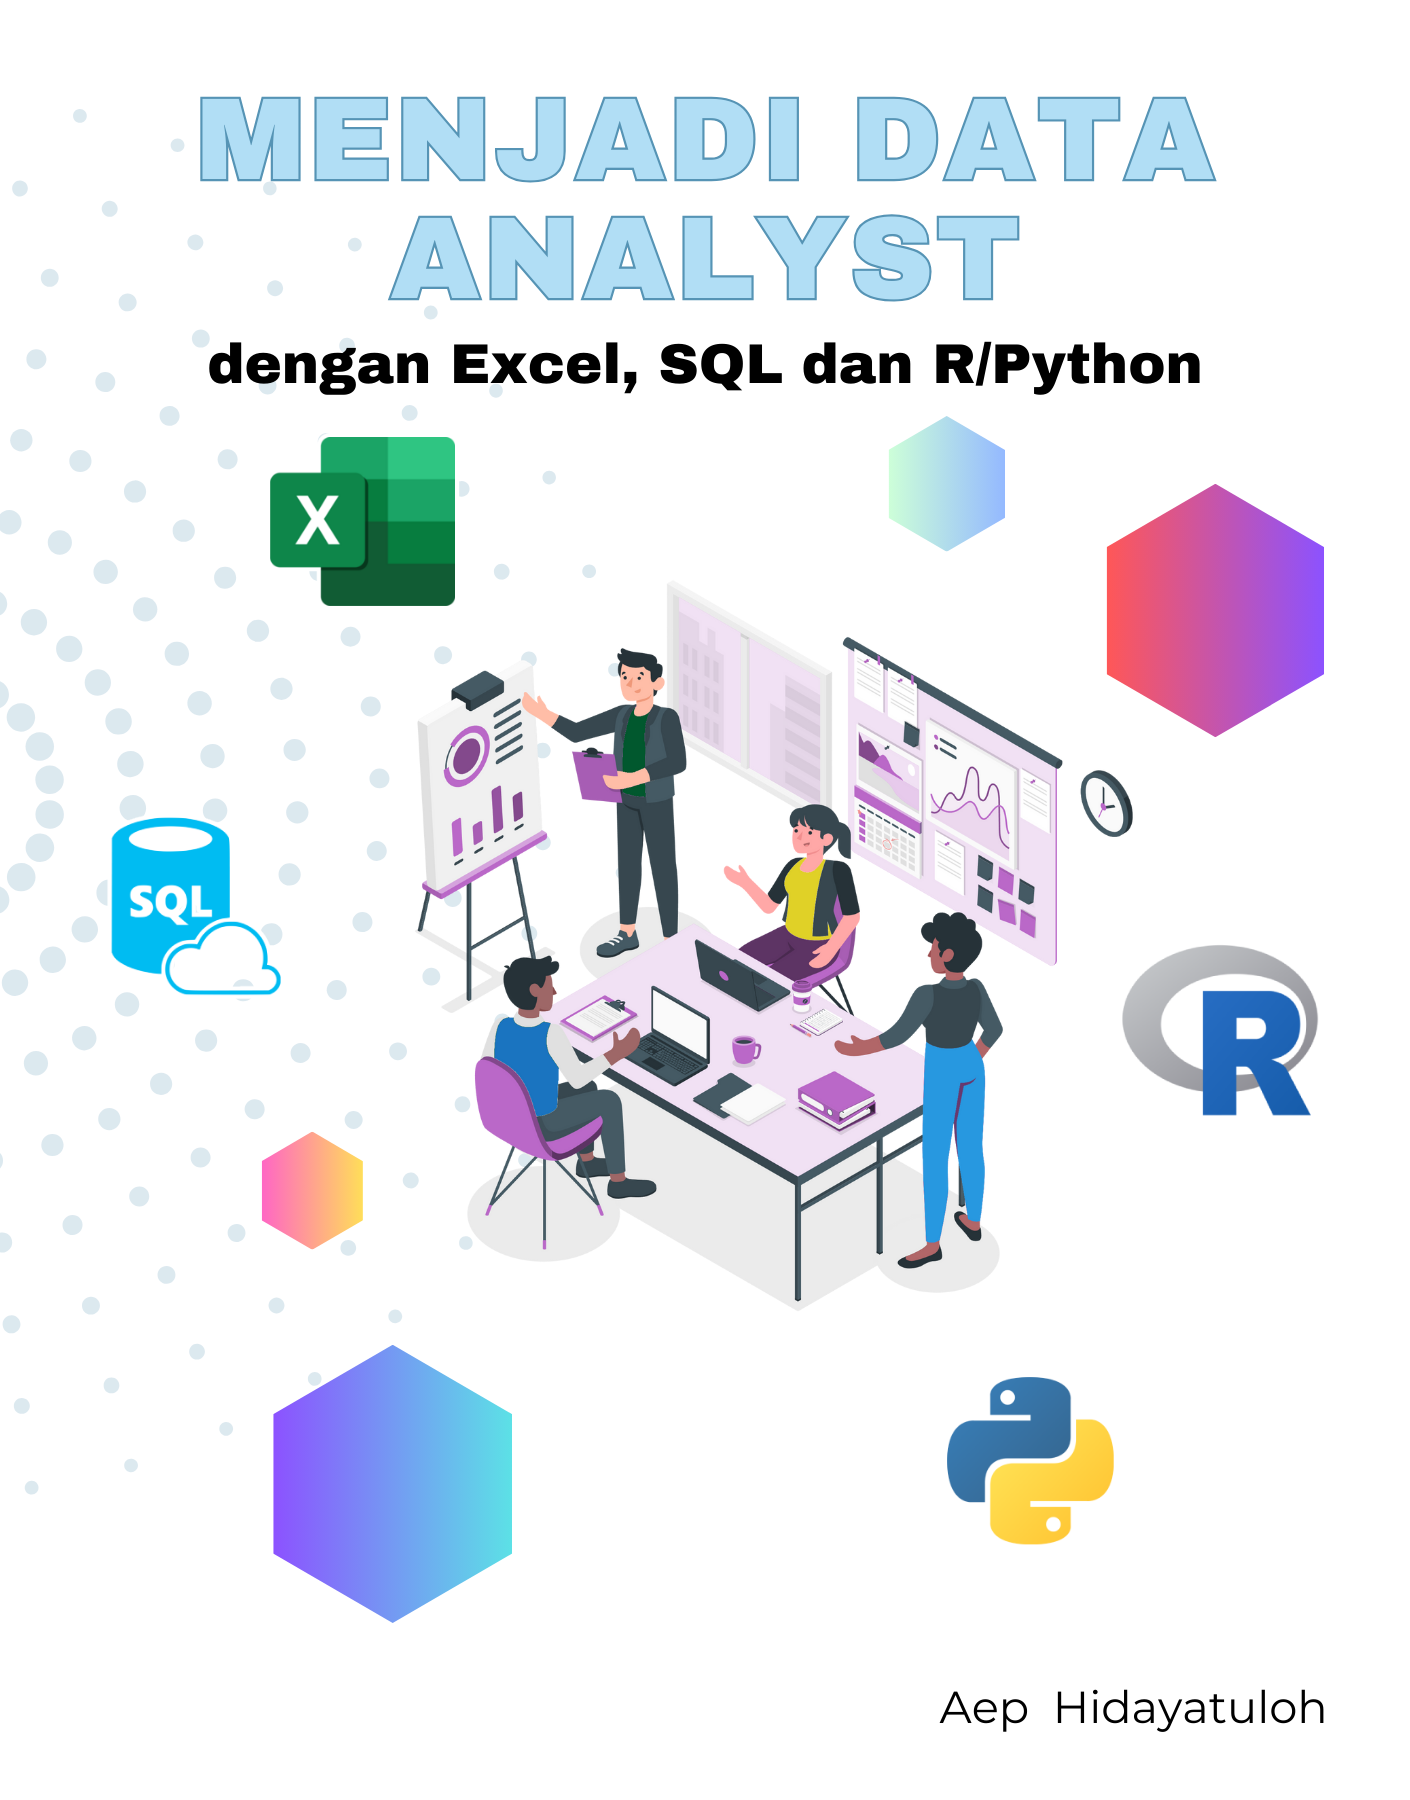
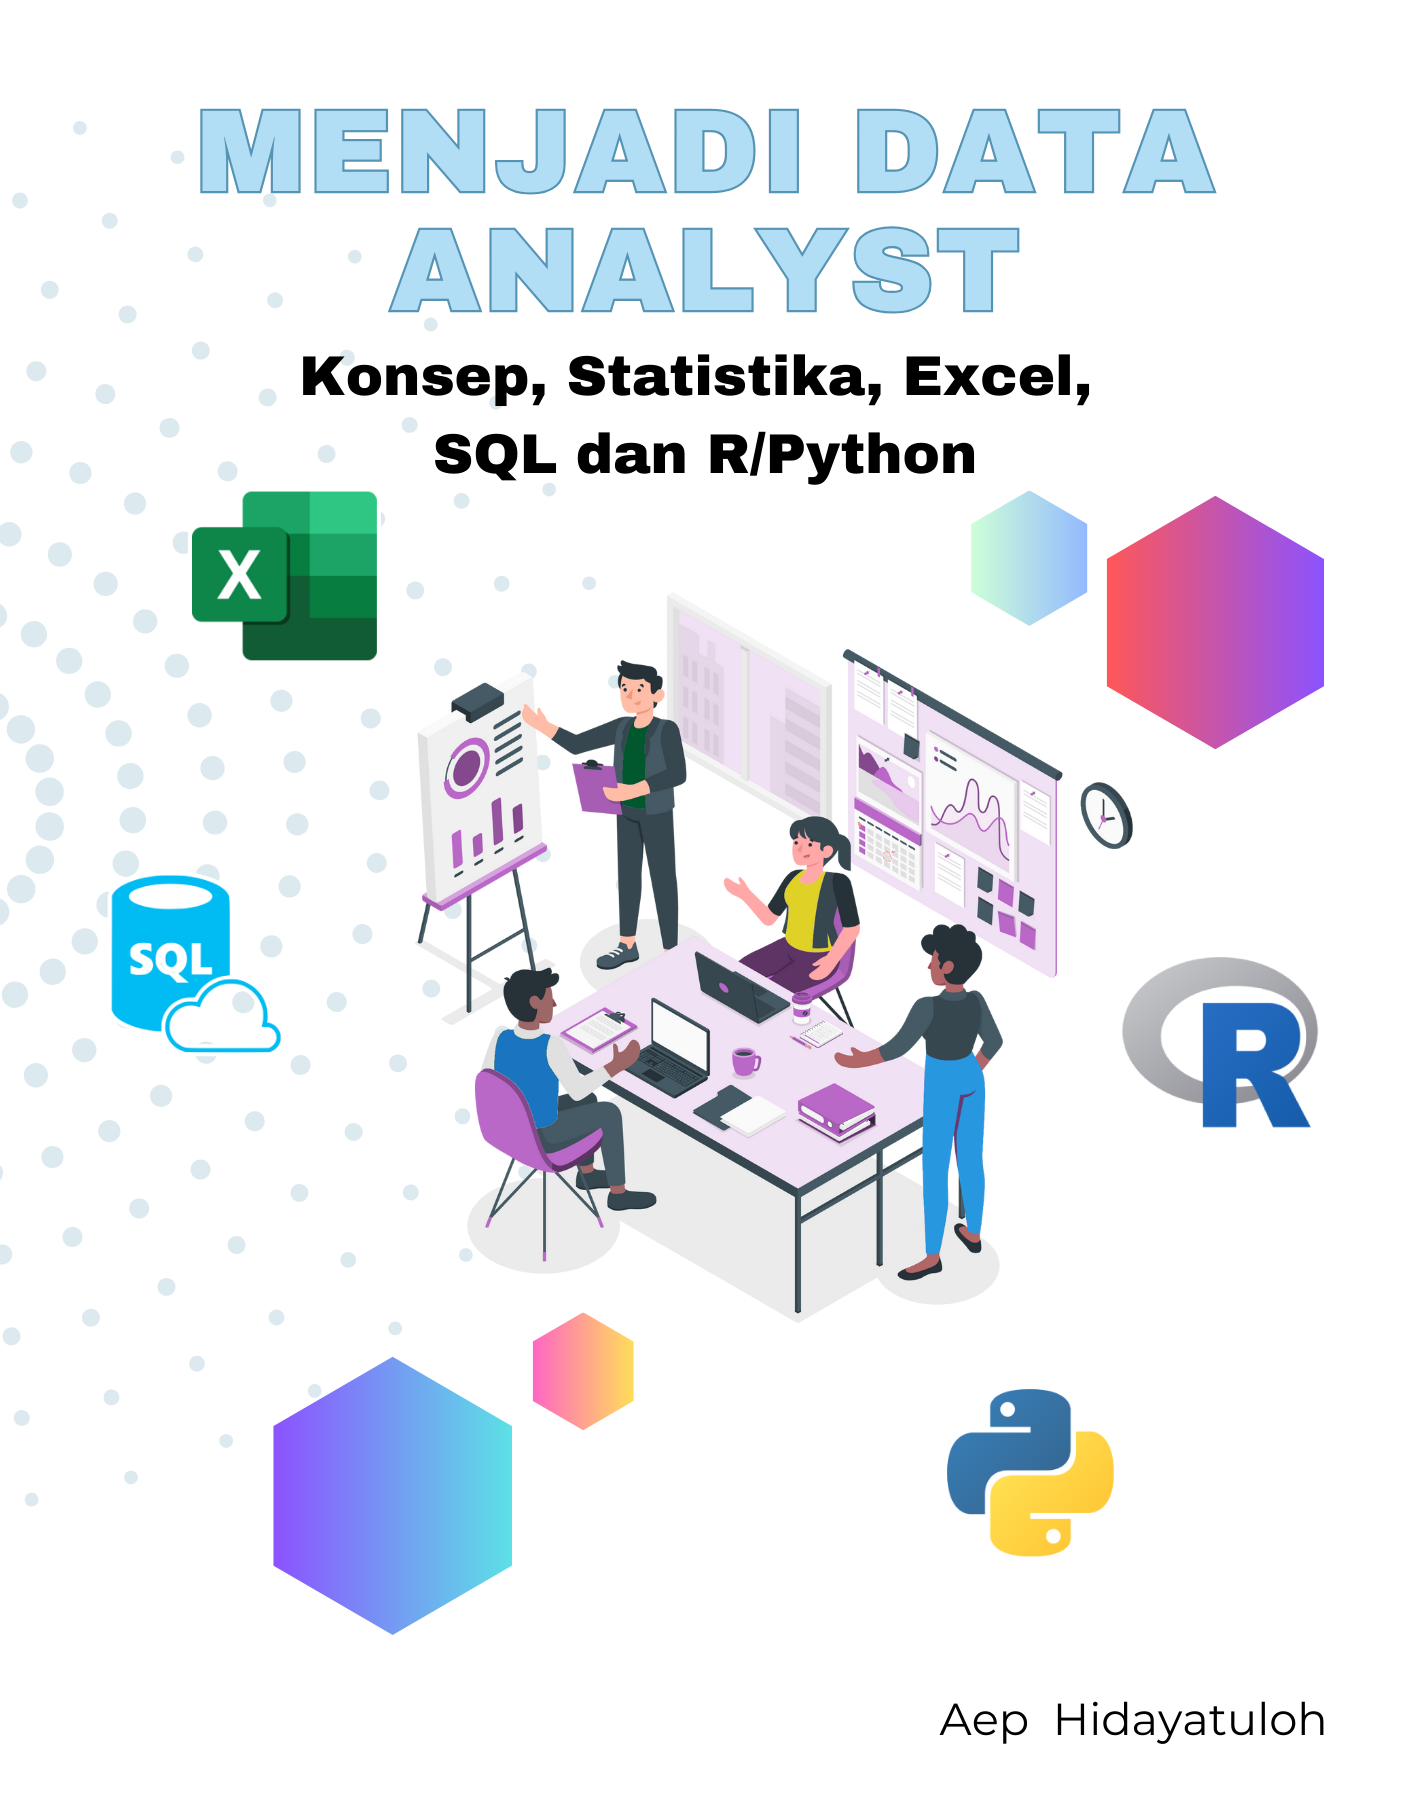
update cover image

diff --git a/_book/index.html b/_book/index.html
@@ -311,8 +311,7 @@ ul.task-list li input[type="checkbox"] {
 
 <section id="pengantar" class="level1 unnumbered">
 <h1 class="unnumbered">Pengantar</h1><p><img src="dawhitecrop.png" title="Menjadi Data Analyst" class="quarto-cover-image img-fluid"></p>
-<p>Data Analyst dan Data Scientist menjadi pekerjaan yang diinginkan banyak orang saat ini, terutama bagi lulusan baru dari universitas. Di Jobstreet tersedia <strong>lebih dari 9.000 lowongan pekerjaan dengan kata kunci “data”</strong>, termasuk data analyst, data entry, data scientist dan lain-lain dengan tingakat magang (<em>internship</em>), junior, senior hingga manager. Lowongan kerja dengan kata kunci “data analyst” sendiri ada lebih dari 1.000 lowongan pekerjaan.</p>
-<p>Mereka yang memang menempuh pendidikan yang berkaitan erat dengan data seperti Statistika dan Ilmu Komputer, atau yang tidak hubungannya sama sekali seperti lulusan Ilmu Hukum, Perikanan dan Kelautan, dan lain-lain yang ingin beralih karir menjadi data analyst atau data scientist mulai banyak bermunculan.</p>
+<p>Data Analyst dan Data Scientist menjadi pekerjaan yang diinginkan banyak orang saat ini, terutama bagi lulusan baru dari universitas. Di Jobstreet tersedia lebih dari 9.000 lowongan pekerjaan dengan kata kunci “data”, termasuk data analyst, data entry, data scientist dan lain-lain dengan . Mereka yang memang menempuh pendidikan yang berkaitan erat dengan data seperti Statistika dan Ilmu Komputer, atau yang tidak hubungannya sama sekali seperti lulusan Ilmu Hukum, Perikanan dan Kelautan, dan lain-lain yang ingin beralih karir menjadi data analyst atau data scientist mulai banyak bermunculan.</p>
 <p>Karena banyaknya keinginan dan kebutuhan akan pendidikan tentang data, banyak universitas atau kampus mulai mempertimbangkan atau bahkan sudah mulai untuk mengampu pendidikan yang berkaitan dengan bidang ini. Bahkan banyak lembaga penyedia pendidikan, training atau kursus yang menydiakan kesempatan bagi mereka yang ingin belajar untuk menjadi Data Analyst atau Data Scientist. Buku ini akan mengajak Anda untuk mulai memahami apa itu data analyst, kemampuan yang dibutuhkan dan disertai dengan contoh kasus dan teknis pengerjaannya yang akan menambah pemahaman dan kemampuan Anda untuk menjadi data analyst.</p>
 <p>Alat atau <em>Tools</em> yang akan sangat berguna dan biasanya digunakan dalam mengerjakan analisis data adalah Excel, SQL, dan terkadang juga menggunakan bahasa pemrograman. Bahasa Pemrograman yang biasanya digunakan dalam kegiatan analisis data adalah R atau Python. Oleh karena itu, buku ini akan mengajak Anda untuk mengenal lebih jauh tentang data analytics dan <em>tools</em> yang biasanya digunakan untuk menunjang aktivitas analisis data.</p>
 
